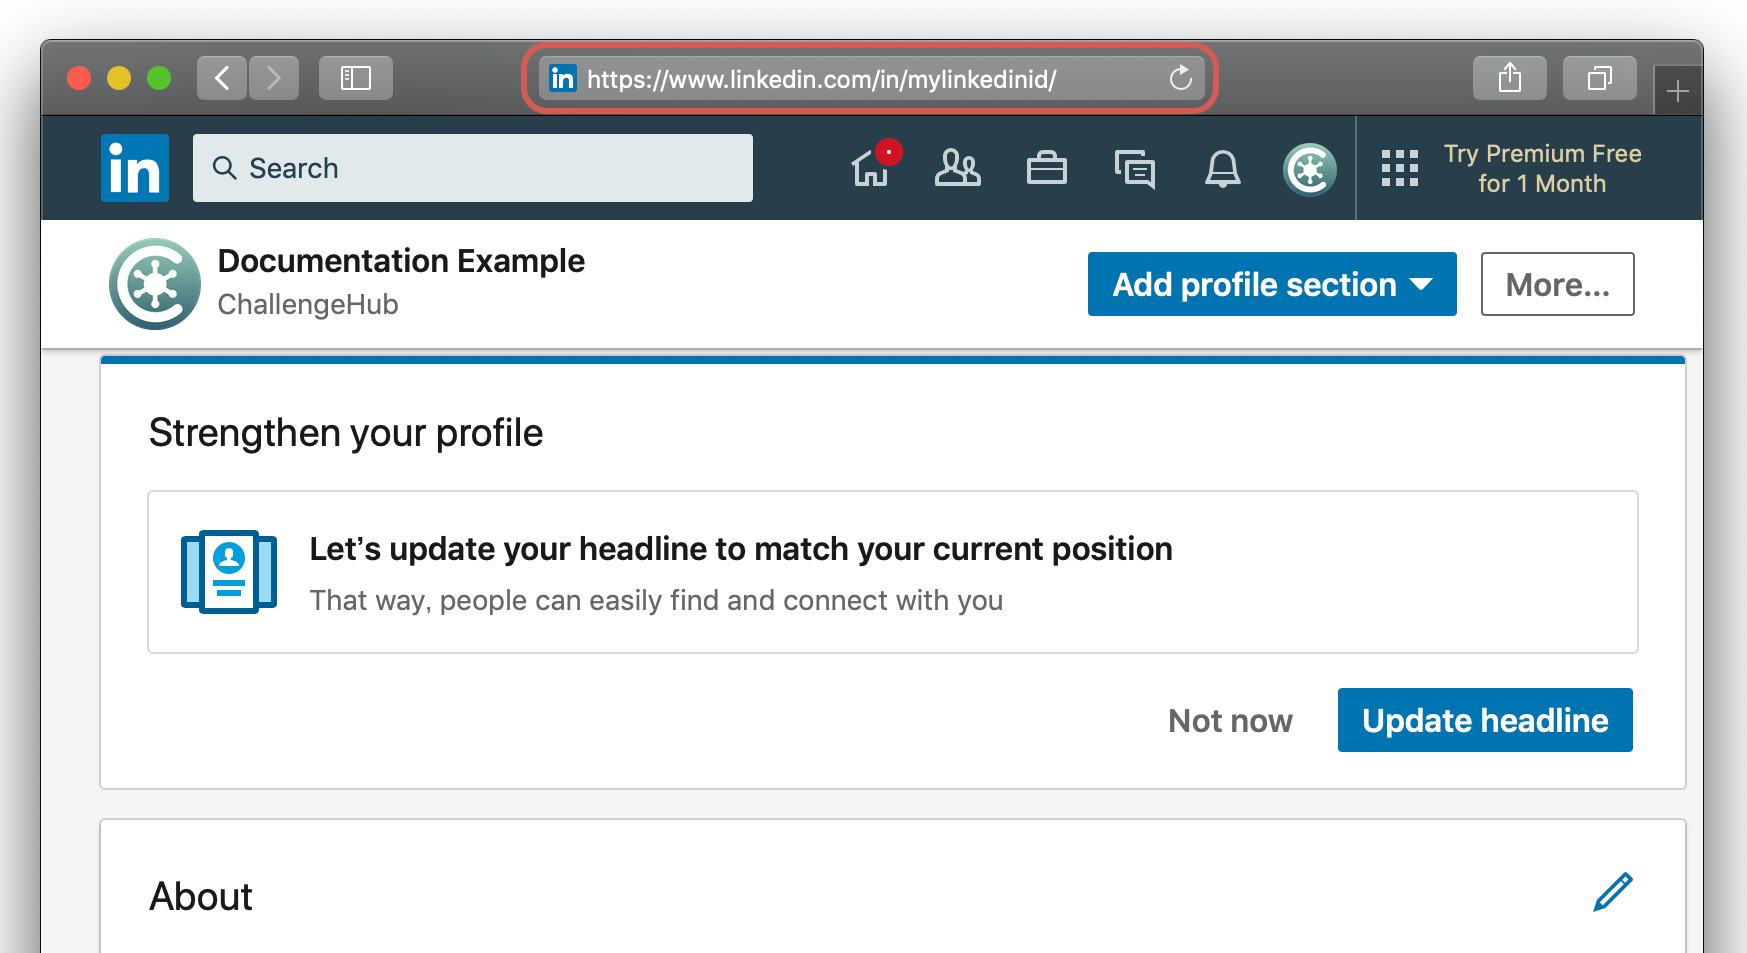
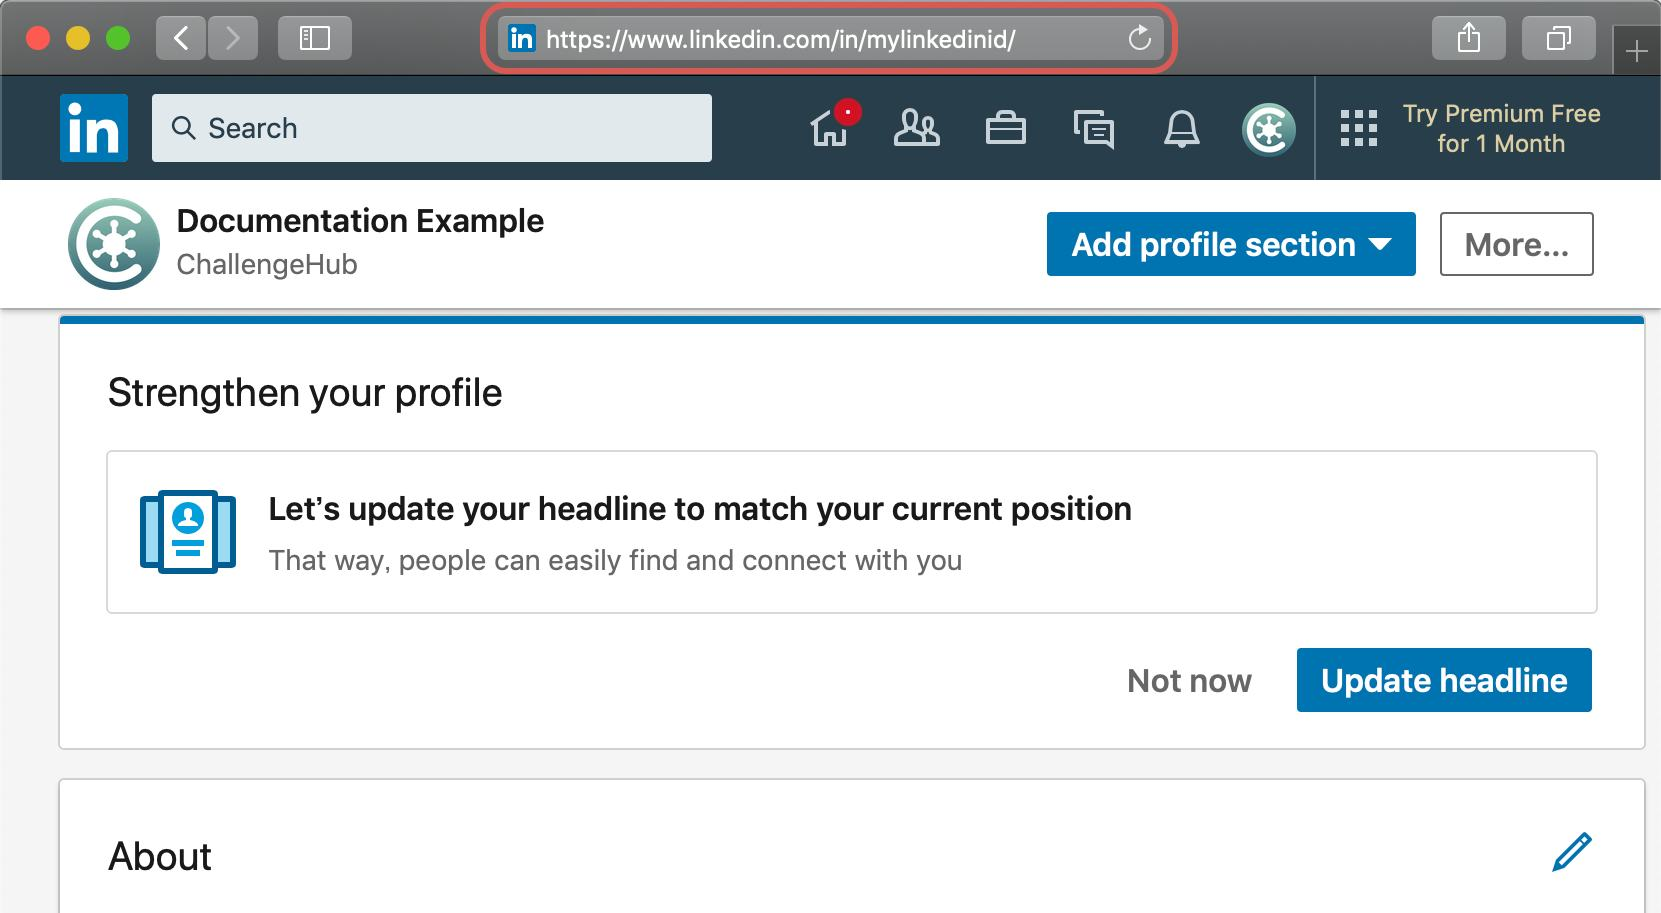
Replaced placeholder screenshots - No window chrome shadow, so these images work with the usual CSS

diff --git a/_paragraphs/en/docs/getting-your-account-ready/04-finding-your-github-id.md b/_paragraphs/en/docs/getting-your-account-ready/04-finding-your-github-id.md
@@ -1,7 +1,7 @@
 ---
 heading: If you are using GitHub
-image_alt: Github front page
-image_path: documentation/signup-with-github/github-front-page.jpg
+image_alt: Screenshot highlighting the address bar where you can copy the URL
+image_path: documentation/getting-your-account-ready/finding-your-github-id.jpg
 lang: en
 page_name: documentation/getting-your-account-ready
 position: 4

diff --git a/_paragraphs/en/docs/getting-your-account-ready/03-finding-your-primary-mail-address.md b/_paragraphs/en/docs/getting-your-account-ready/03-finding-your-primary-mail-address.md
@@ -1,6 +1,6 @@
 ---
-image_alt: Github front page
-image_path: documentation/signup-with-github/github-front-page.jpg
+image_alt: Screenshot highlighting the primary address
+image_path: documentation/getting-your-account-ready/finding-your-primary-mail-address.jpg
 lang: en
 page_name: documentation/getting-your-account-ready
 position: 3

diff --git a/_paragraphs/en/docs/getting-your-account-ready/02-finding-your-linkedin-id.md b/_paragraphs/en/docs/getting-your-account-ready/02-finding-your-linkedin-id.md
@@ -1,6 +1,6 @@
 ---
 heading: If you are using LinkedIn
-image_alt: Github front page
+image_alt: Screenshot highlighting the address bar where you can copy the URL
 image_path: documentation/getting-your-account-ready/finding-your-linkedin-id.jpg
 lang: en
 page_name: documentation/getting-your-account-ready
